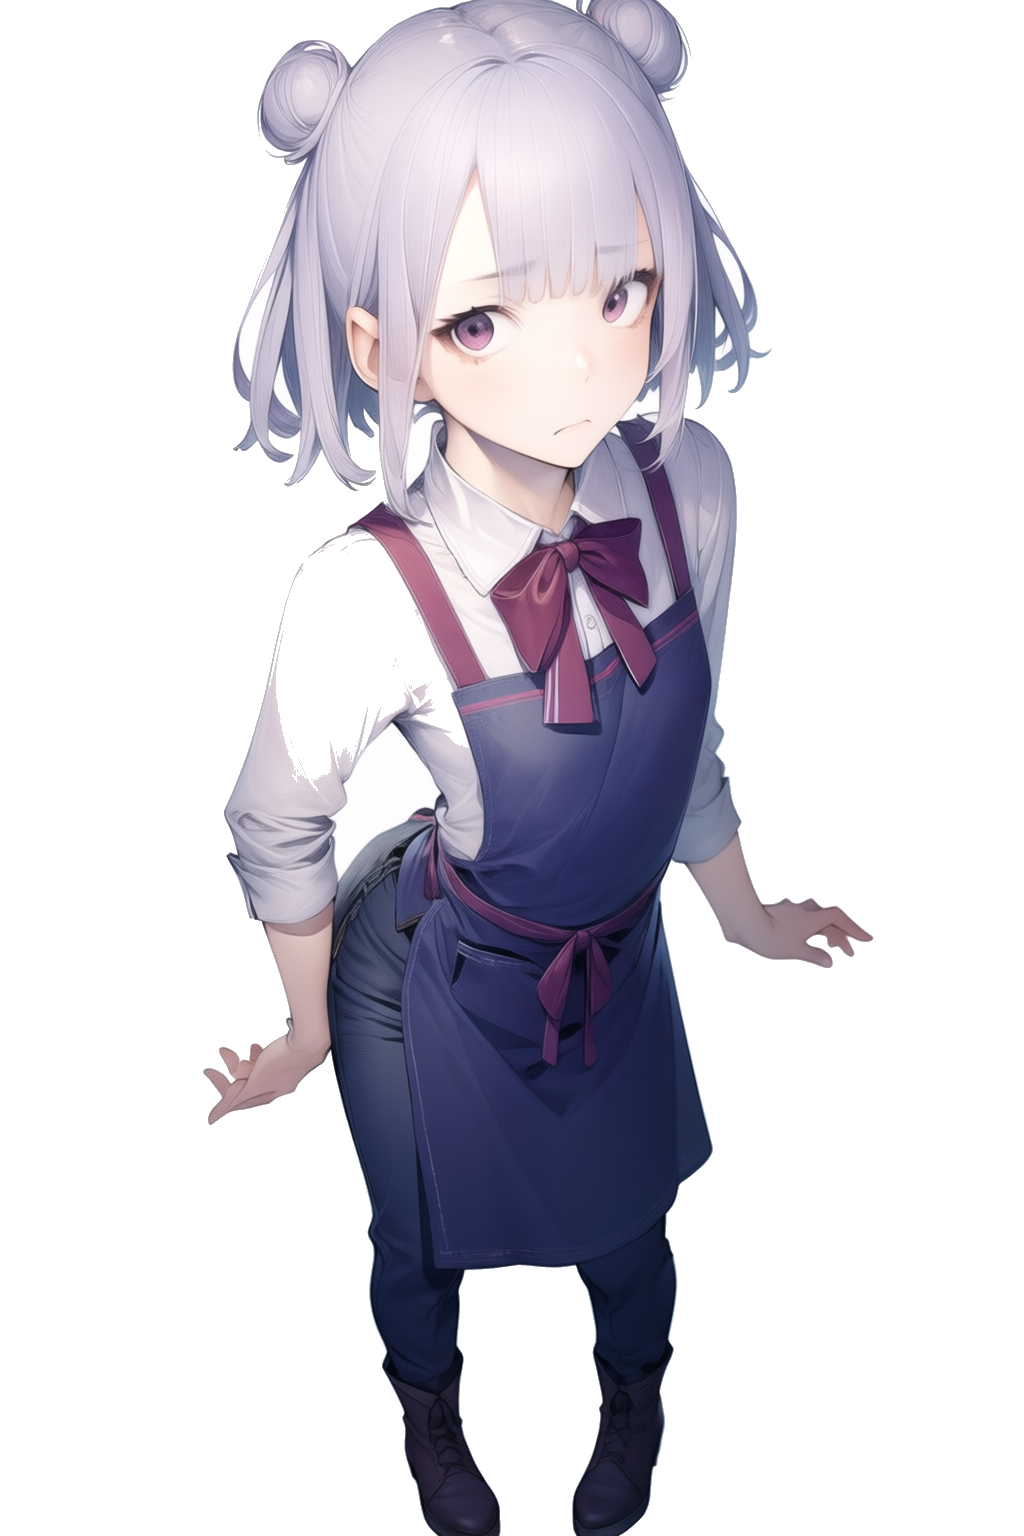
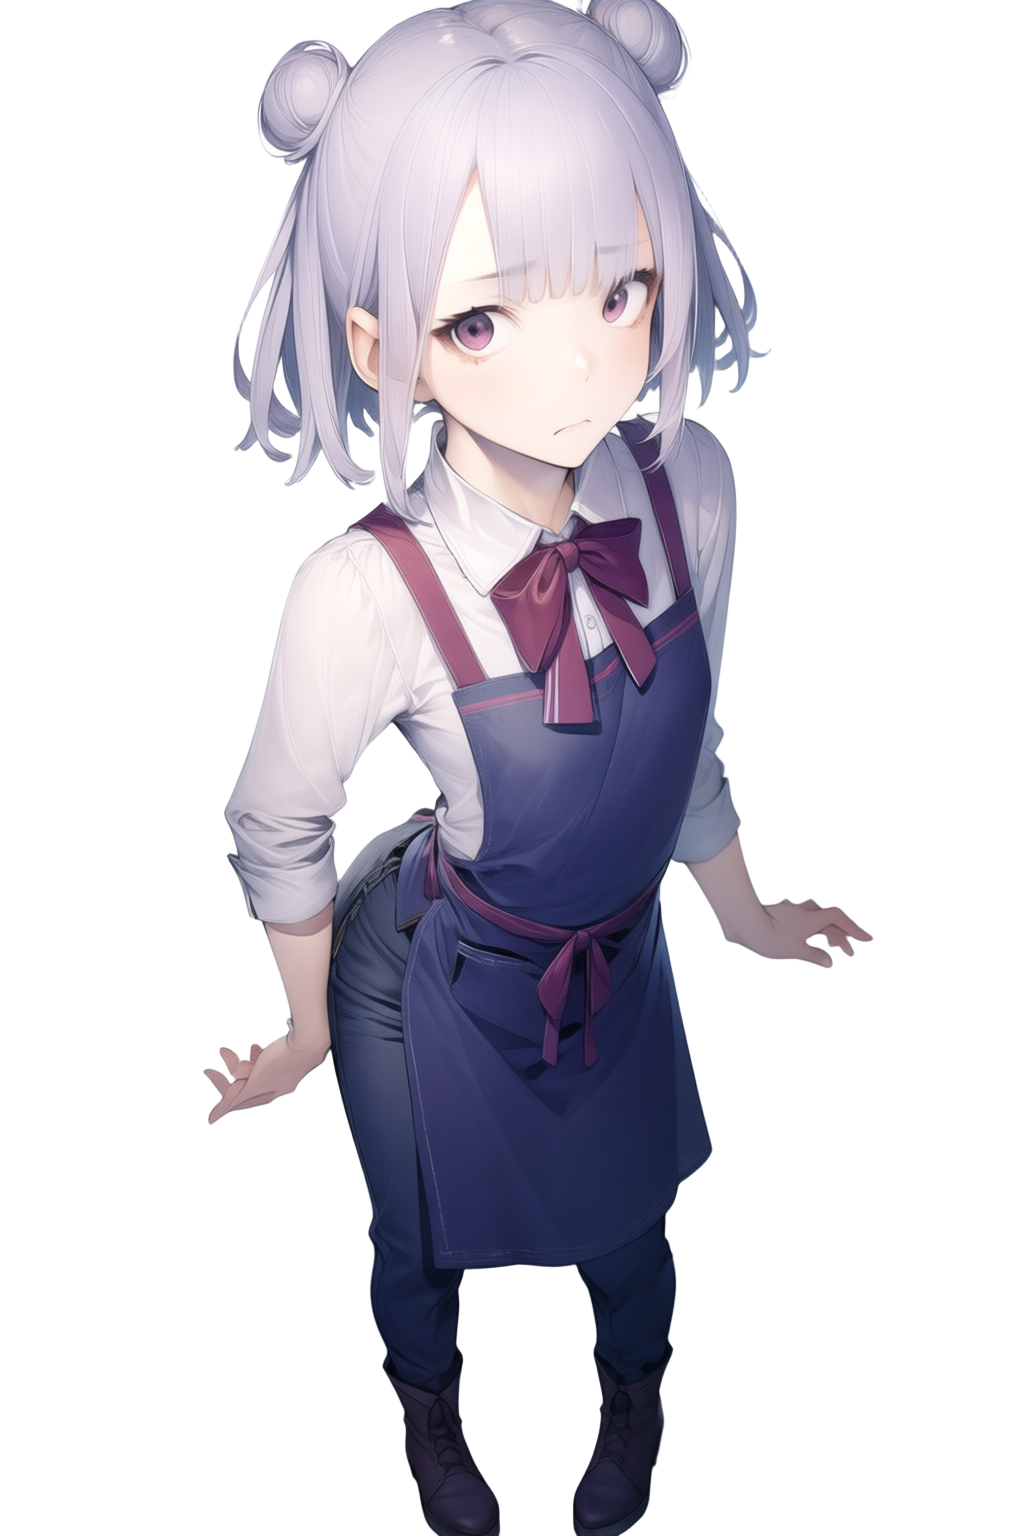
Use BiRefNet for pilot sprite cutouts

Changed region(s): [[0.25, 0.3438, 0.4688, 0.5312]]

diff --git a/assets/runtime/character_pilot/README.md b/assets/runtime/character_pilot/README.md
@@ -10,4 +10,4 @@ This folder contains the 11 candidates selected for Issue #230's pilot review.
 
 The files are intentionally kept separate from the 334-image review pool. They are not marked `runtime_approved` yet, and the review scene must be used before any production UI replacement. The source-to-trigger mapping is [character_visuals_v1.json](../../../data/presentation/character_visuals_v1.json).
 
-The seven standing-image entries have a derived copy under `derived_alpha/`. Only edge-connected white background pixels are removed; the original PNGs remain unchanged for comparison and rollback. The Godot pilot panel uses these derived paths and keeps the legacy presentation as fallback.
+The seven standing-image entries have a derived copy under `derived_alpha/`. These copies are generated with ComfyUI's built-in BiRefNet background-removal model and an inverted foreground mask; the original PNGs remain unchanged for comparison and rollback. The reprocessing workflow is `tools/assets/apply_birefnet_character_pilot.ps1`. The Godot pilot panel uses these derived paths and keeps the legacy presentation as fallback.
